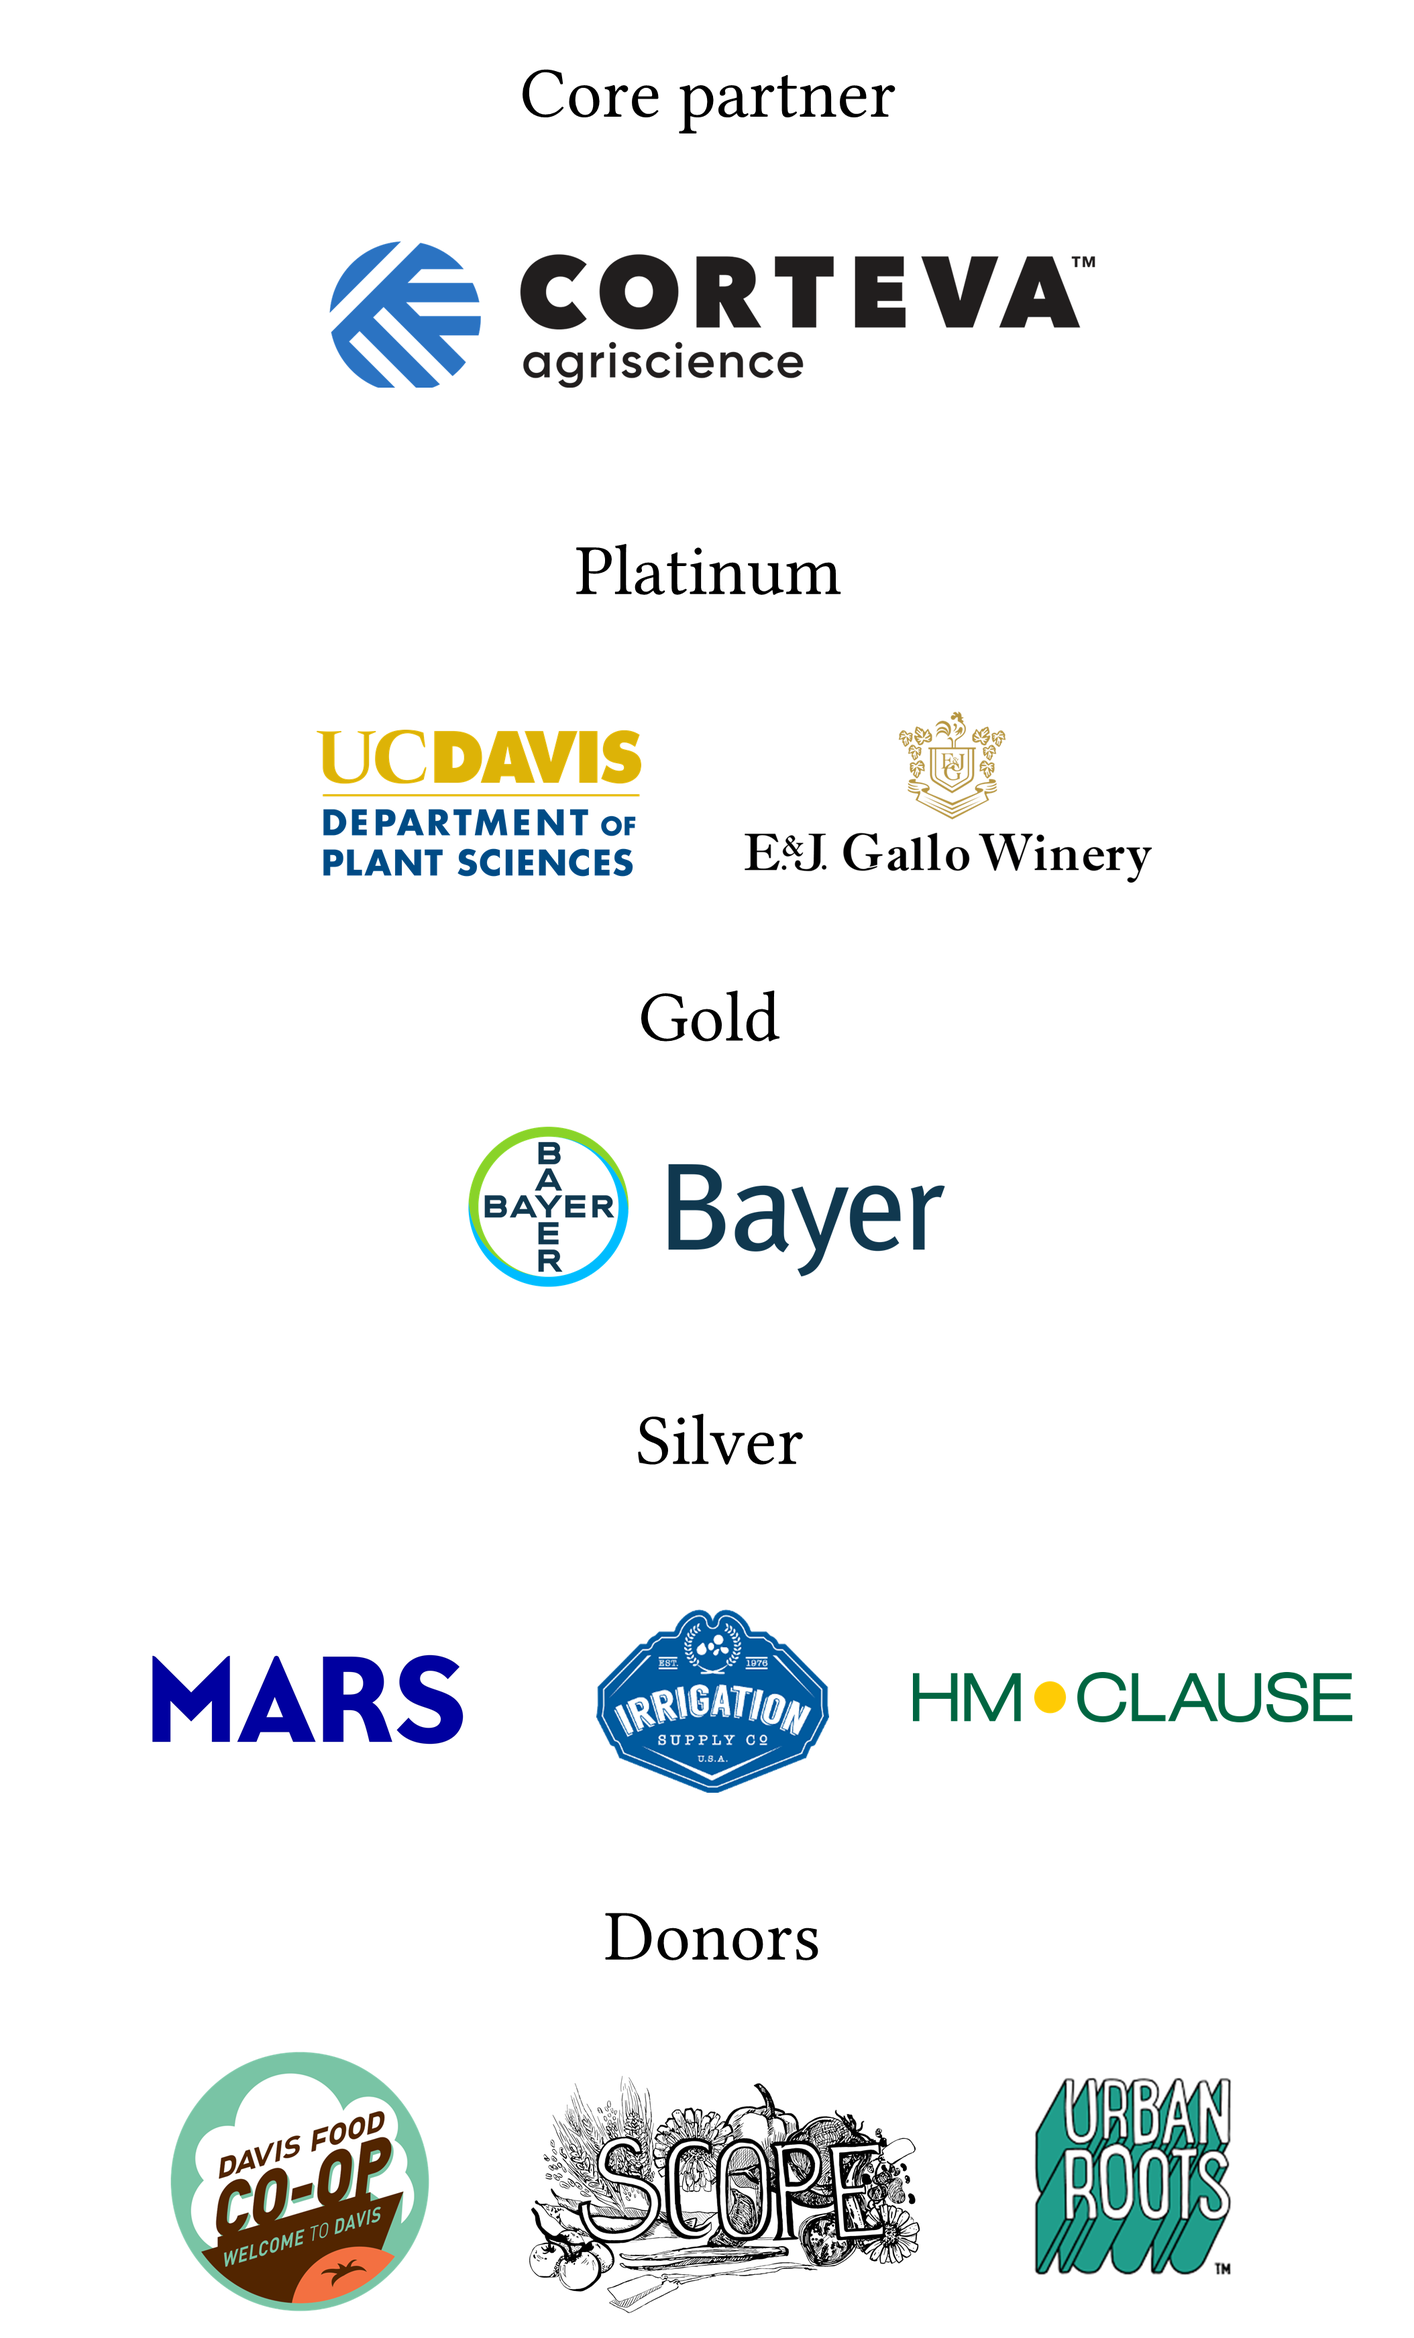
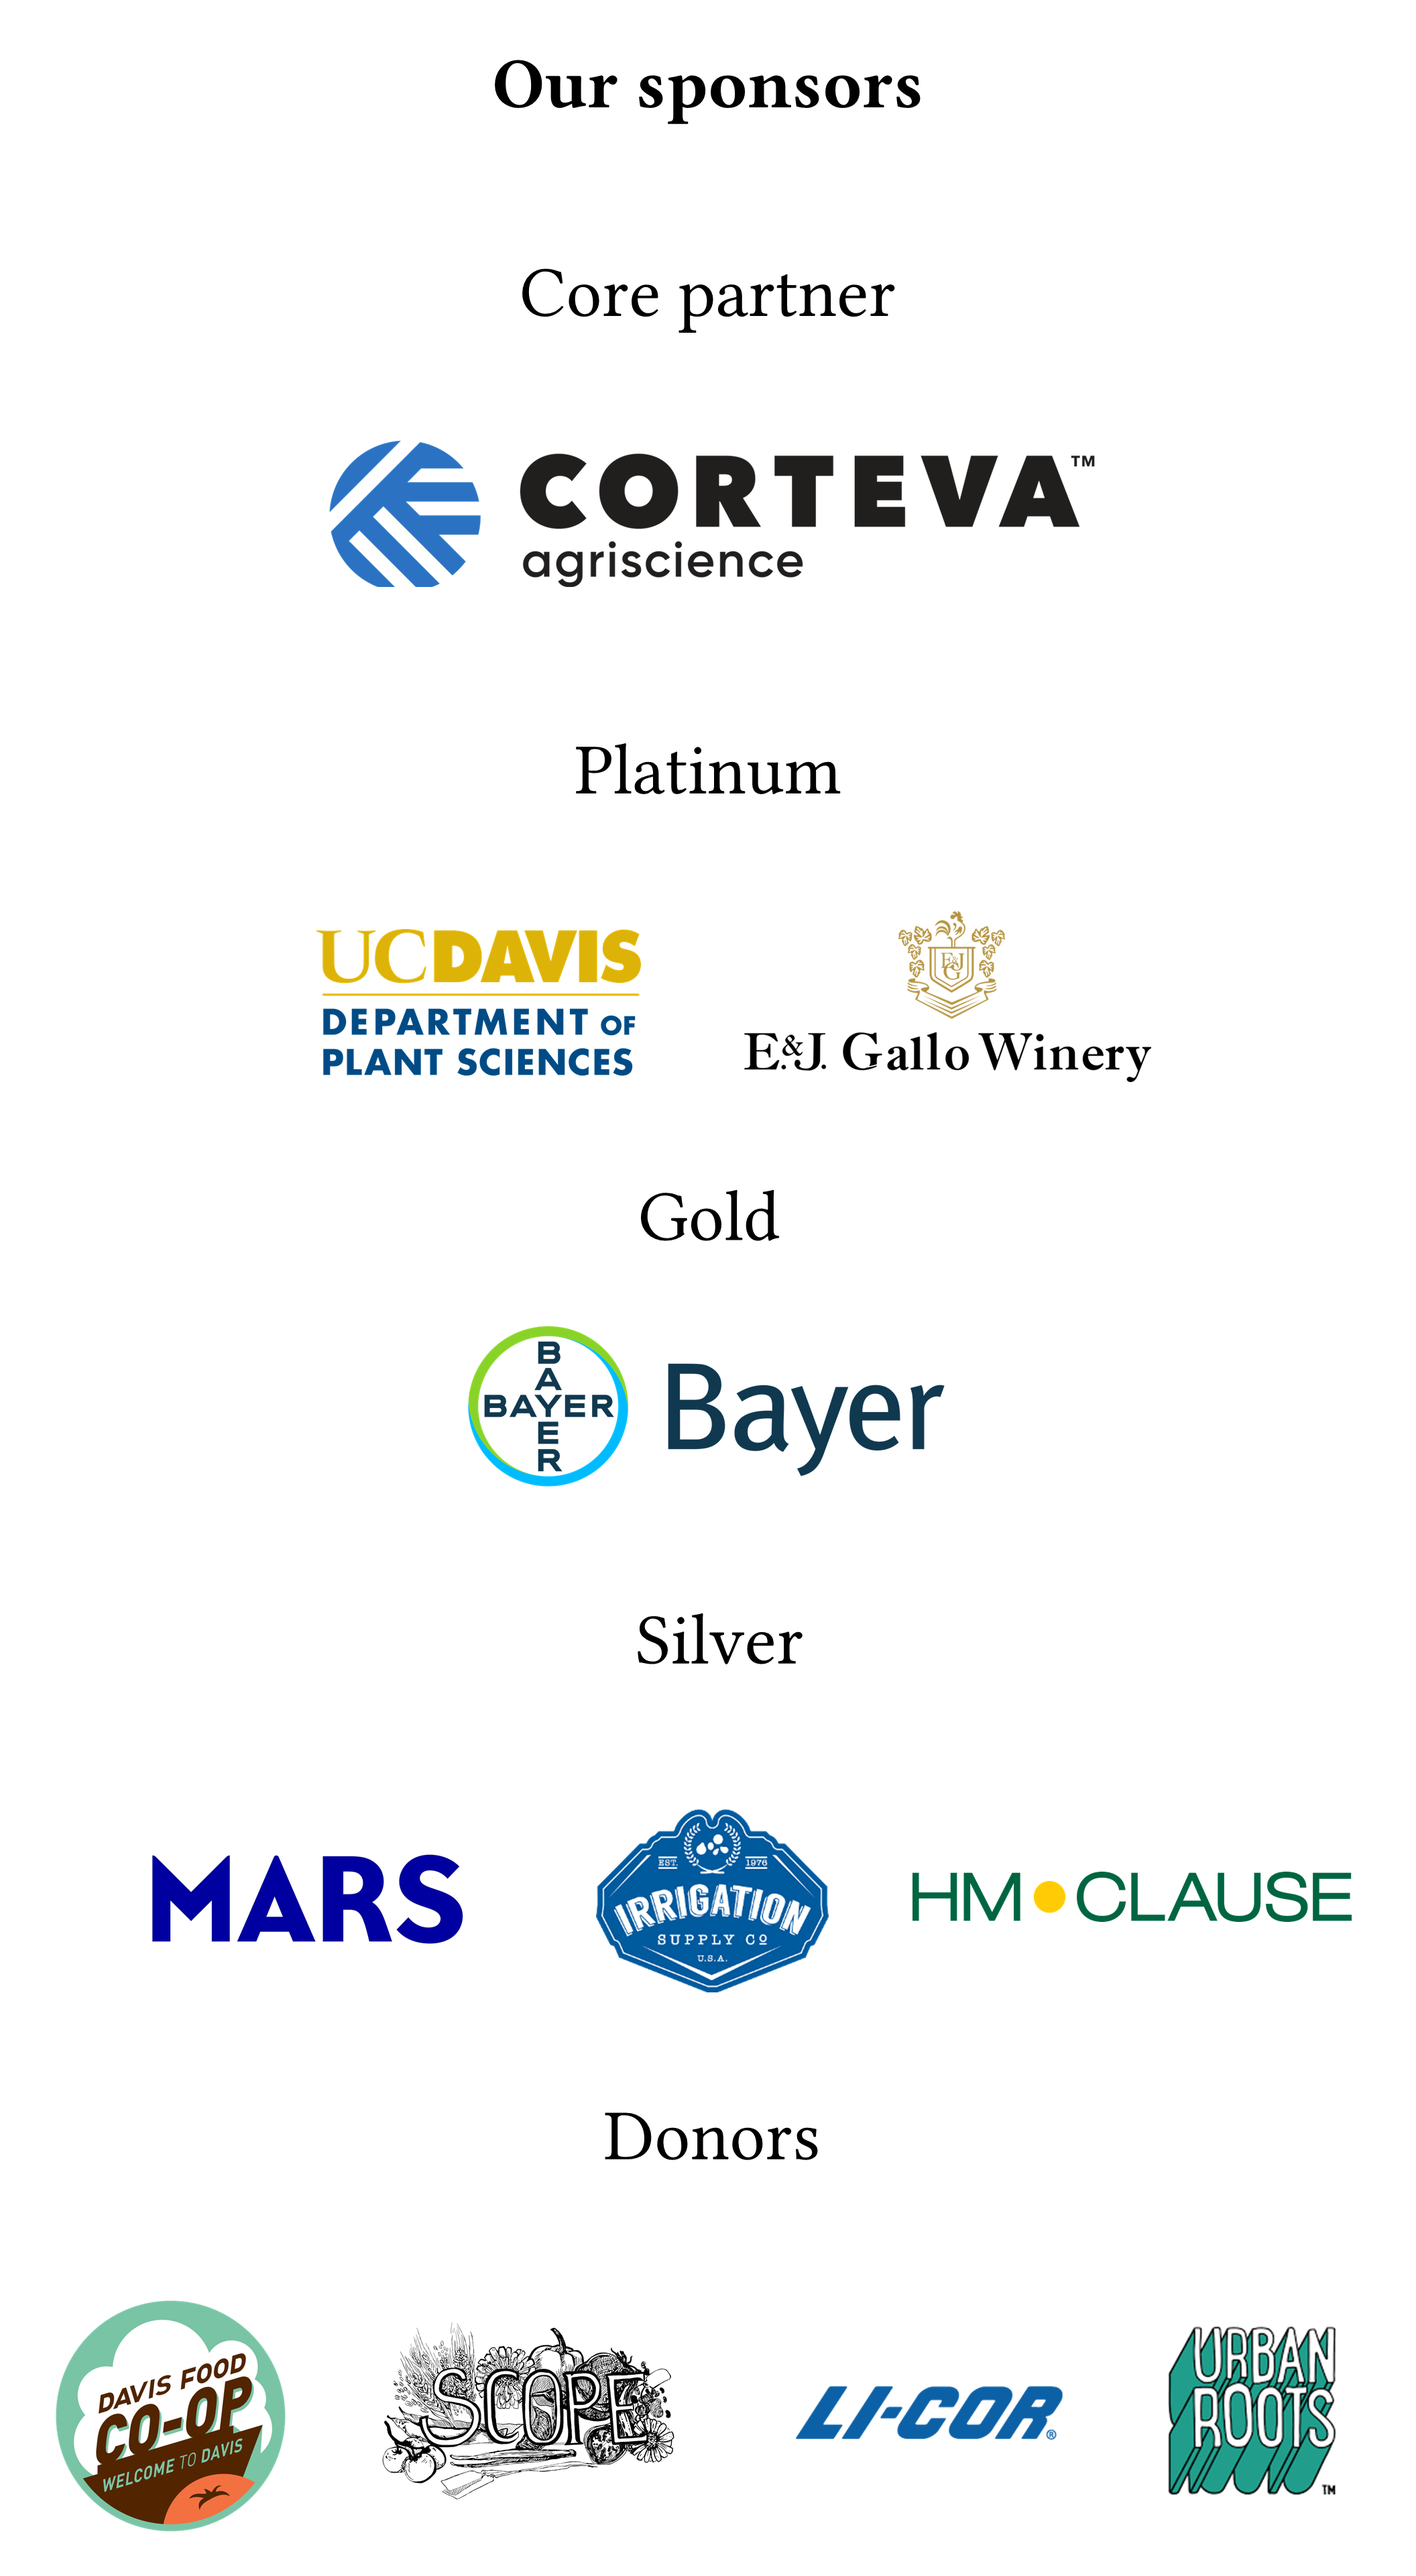
add corteva speaker, updates sponsors, edit button spaciing

diff --git a/_sass/components/_buttons.scss b/_sass/components/_buttons.scss
@@ -6,7 +6,7 @@
 
 .btn-xl {
   font-size: 18px;
-  padding: 20px 40px;
+  padding: 40px 40px;
 }
 
 .btn-primary {
